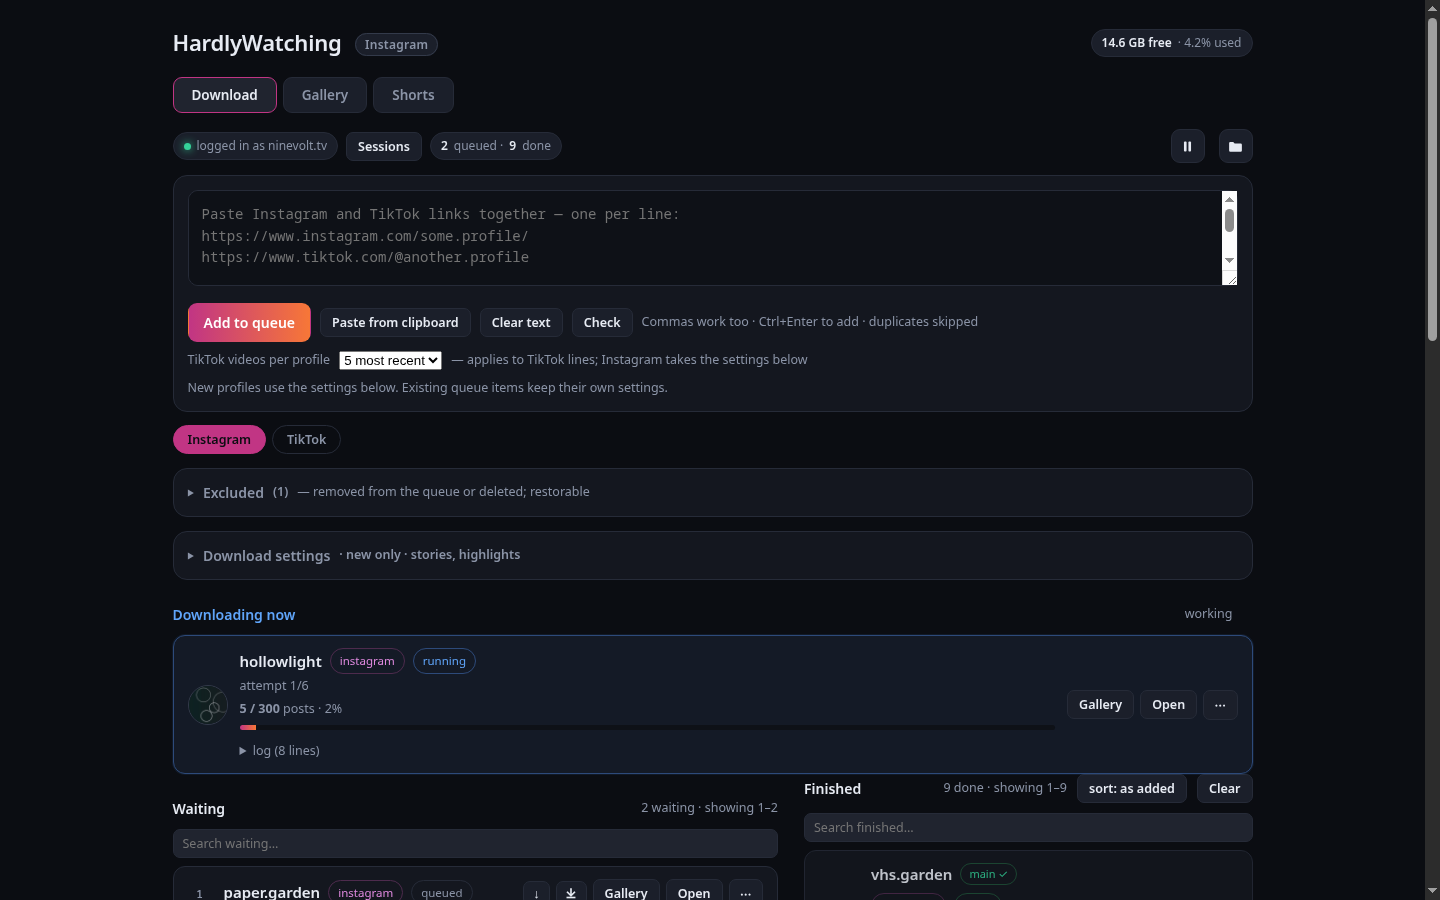
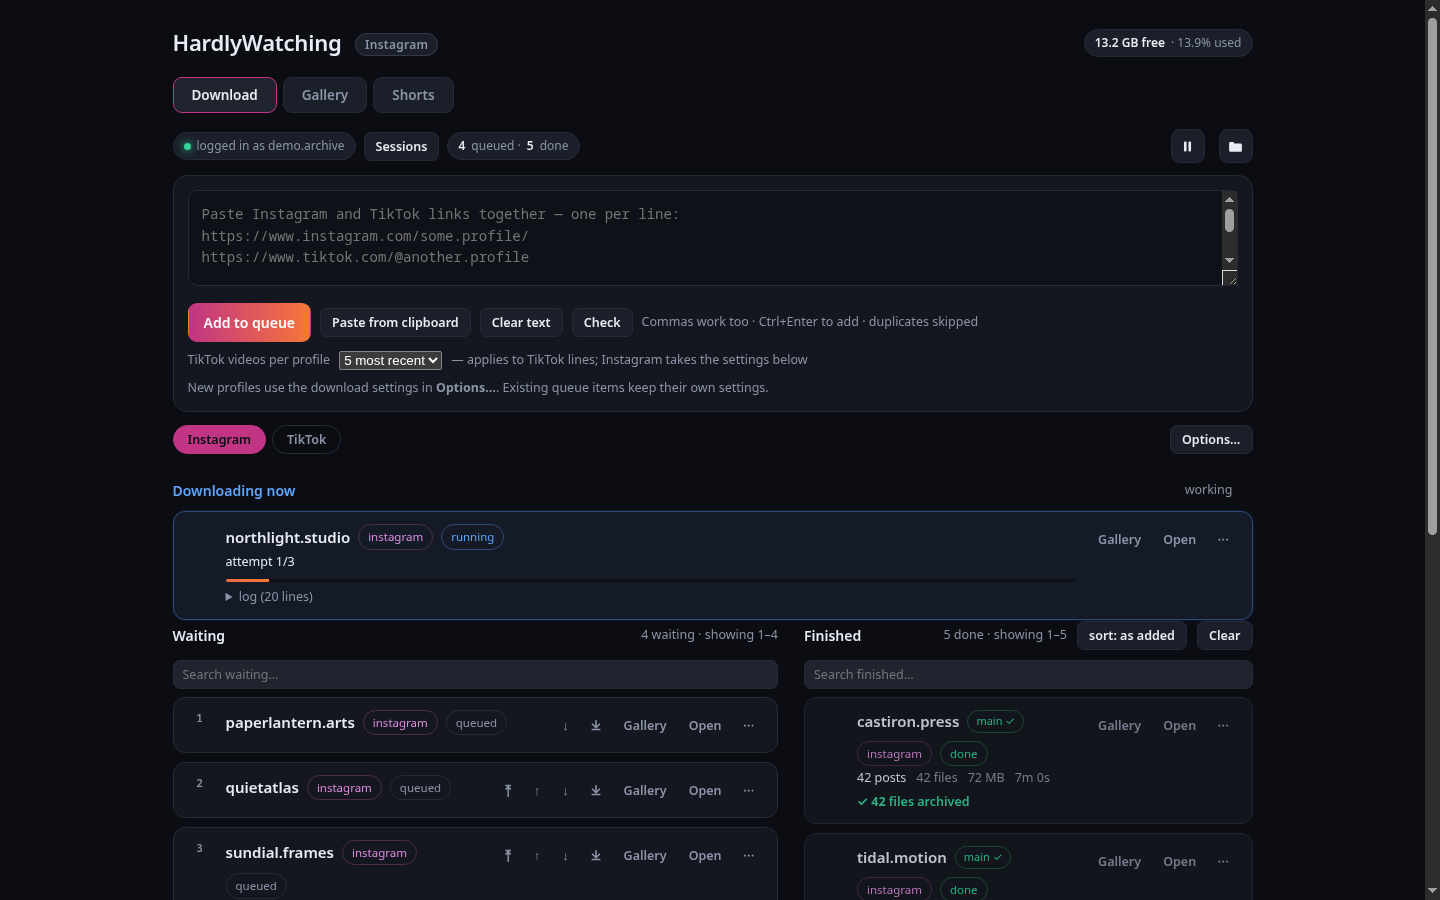
README: release builds, one-click flatpak, phone switch, backups
The screenshots were of the layout two releases ago: four collapsed panels above
the queue and no Options button anywhere. Redrawn against a demo instance -- made
up handles, a demo session and archive path, a stand-in downloader for the
progress row -- so nothing of anyone's real library is in them.

What the README gained, beyond the pictures:

- "Install a release build": flatpak (with the one-click .flatpakref from the
  flatpak repository on Pages), AppImage, DEB, and where each keeps its state.
- "Reach it from your phone" is now the switch in Options, with the
  INSTA_HOST= loopback-only escape hatch for headless starts, instead of telling
  people to export INSTA_HOST and hope.
- "Backup and restore": what a backup contains, that restoring touches no media,
  that the current state is snapshotted first and the queue comes back paused,
  and why gallery-cache.db is not in the zip.

Also: the two queue heads get a common minimum height. Waiting and Finished
started on the same line, but the finished head carries sort and Clear, so the
search boxes below them sat 8px apart.

diff --git a/index.html b/index.html
@@ -211,6 +211,12 @@
   #failSection > .section-head,
   #doneSection > .section-head,
   .col-left > .section-head{margin-top:0}
+  /* Both heads hold the same row of controls now (Waiting has the count, the
+     finished list adds sort and Clear), but the finished one ends up taller, so
+     the search boxes under the two headings sat 8px apart. A common floor keeps
+     the rows below them level. */
+  .col-left > .section-head,
+  #doneSection > .section-head{min-height:30px;align-items:center}
   #failSection{margin-bottom:24px}
   /* The queue and the finished list are different lengths, so the gap above
      them has to come from the layout, not from whichever head happens to be

diff --git a/README.md b/README.md
@@ -72,7 +72,9 @@ can start logins and delete files. Do not expose it to the internet.
 ## Screenshots
 
 **Queue** — paste profiles, add them, start. Instagram and TikTok download in
-parallel, one profile each, with the waiting and finished lists side by side.
+parallel, one profile each, with the waiting and finished lists side by side. The
+two lists line up on the same row, and the occasional panels live behind
+**Options…** rather than stacked under the paste box.
 
 ![The queue screen: profiles waiting and finished, with the page and search controls](docs/queue.png)
 
@@ -122,6 +124,25 @@ marked, plus grabbing a login out of your browser.
 
 ![The sessions panel: saved sessions with Use buttons, one marked in use](docs/sessions-panel.png)
 
+**Options** — download settings, backup and restore, phone access and the
+excluded list were four collapsed panels between the paste box and the queue.
+They are one button and a tab strip now, so the queue is what the page shows.
+
+![The Options dialog on its Download settings tab](docs/options.png)
+
+**Backup & restore** — export everything the app *remembers* into one zip, and
+restore it on any copy of the app, here or on another machine. The archive
+folders are not in the zip; the gallery and shorts already rebuild from them.
+
+![Options, the Backup & restore tab, with saved backups and an export button](docs/options-backup.png)
+
+**On a phone** — the same app at phone width. The phone card in Options has the
+switch, the address to type and a copy button.
+
+![The queue on a 390px-wide screen](docs/queue-phone.png)
+
+![Options, phone access, with the switch on and the address to type](docs/options-phone.png)
+
 ---
 
 ## Install and run
@@ -169,6 +190,29 @@ version, its process id, the port it holds, when it started and the API number:
 {"version": "0.2.0", "pid": 124968, "port": 8899, "started": "2026-10-23T16:09:57-07:00", "api": 1}
 ```
 
+### Install a release build
+
+Every [release](https://github.com/hardlysleeping/HardlyWatching/releases) has
+Linux x86_64 binaries, built from the tag. They are the same app as
+`python3 run.py` — one web UI, one queue, one engine — just packaged.
+
+| | how | where its files go |
+|---|---|---|
+| **Flatpak** | [Install](https://hardlysleeping.github.io/HardlyWatching/hardlywatching.flatpakref) — opens your software installer, or `flatpak install https://hardlysleeping.github.io/HardlyWatching/hardlywatching.flatpakref` | `~/.var/app/io.github.hardlysleeping.HardlyWatching`; port 8777 |
+| **AppImage** | `chmod +x HardlyWatching_*_amd64.AppImage` and run it | same as `run.py` |
+| **DEB** | `sudo apt install ./HardlyWatching_*_amd64.deb`, then launch from the menu | same as `run.py` |
+
+The flatpak carries its own Python, ffmpeg, instaloader and yt-dlp, keeps its own
+queue and cache, and listens on **8777** so it cannot collide with an install
+already running on 8765. It needs the `org.gnome.Platform//49` runtime from
+Flathub, which the installer fetches; updates arrive with `flatpak update`. The
+AppImage and DEB use your system's WebKitGTK, GTK3 and ffmpeg, so they want a
+glibc 2.38+ distribution (Fedora 39+, Ubuntu 24.04+).
+
+A release build keeps its state where that build expects it. Nothing follows the
+source tree around: to move a queue from one copy to another, export from
+**Options… → Backup & restore** and restore the zip on the other side.
+
 ### Other ways to start it
 
 ```bash
@@ -211,21 +255,32 @@ either you get a plain terminal prompt with the same commands (`start`, `stop`,
 
 ### Reach it from your phone
 
-It listens on `127.0.0.1` by default. To use it from another device on your own
-network or over Tailscale:
+**Options… → Open on your phone** is the whole switch. Turn it on and the card
+shows the address to type into the phone — the machine's LAN address, and the
+Tailscale one if you have it — plus a copy button. Open that address on the phone
+and the browser's *Add to Home Screen* puts a shortcut there; `/shorts` on its
+own is the phone-shaped feed.
+
+The switch is a gate, not a password. While it is on, anything that can reach the
+port can use the whole app: the queue, download settings, backup export, file
+deletion. Turn it off when you are not using it, and do not put the port on the
+internet. The socket is open on all interfaces so the address in the card works,
+but requests from other machines are refused with a short explanation unless the
+switch is on.
+
+Off, requests from other machines are refused. The server binds every interface
+either way, because a loopback-only socket cannot answer the phone at all; the
+switch is what decides. If you would rather not have the socket open, or you are
+starting it from a script, the same thing is an environment variable:
 
 ```bash
-INSTA_HOST=0.0.0.0 python3 run.py
+INSTA_HOST=127.0.0.1 python3 server.py   # loopback only: the phone can never reach it
+INSTA_HOST=0.0.0.0   python3 server.py   # all interfaces, still gated by the switch
 ```
 
-Then open `http://<machine-ip>:8765` — e.g. `http://100.x.y.z:8765` over
-Tailscale, or `http://192.168.1.50:8765` on the same wifi. On Windows,
-`set INSTA_HOST=0.0.0.0` first. For the systemd service, `systemctl --user edit
-hardlywatching` and add `Environment=INSTA_HOST=0.0.0.0` under `[Service]`.
-
-There is no authentication — see the warning at the top. The browser-login button
-opens a terminal on the *server* machine, so login only makes sense from the
-machine it runs on.
+The browser-login button opens a terminal on the *server* machine, so logging in
+only makes sense on the machine it runs on — from the phone, the app is a viewer
+and a queue.
 
 ### Autostart (Linux)
 
@@ -496,6 +551,34 @@ only serves a few vertical renditions and yt-dlp reports height as the **long**
 side, so 1080p means 1080x1920 — hence the familiar rungs of 540, 720 or 1080.
 
 ---
+
+## Backup and restore
+
+The archive is just folders: point any copy of the app at them and the gallery and
+shorts rebuild from the files. What does *not* come back that way is everything the
+app remembers **about** them — the queue and its order, download settings, hidden
+and excluded profiles, delete tombstones, bookmarks and their categories, likes,
+shorts history. That is what a backup is for.
+
+**Options… → Backup & restore:**
+
+- **Back up now** writes one into the app's own backups folder. It also does this
+  itself once a day; the newest seven are kept.
+- **Export a copy…** downloads the same thing as a zip: `state.json`,
+  `profiles.db`, and a manifest. Optionally the instaloader session too, so the
+  other machine does not have to spend a rate-limited login.
+- **Restore from backup…** takes a zip back in, here or on another copy of the
+  app (web, AppImage, DEB, flatpak — any of them).
+
+Restoring replaces the queue, settings and people list, **not** the archive
+folders: no media is moved, downloaded or deleted by a restore. The current state
+is snapshotted first, so it can be undone, a mismatched archive path is rewritten
+to the folder you are actually using, and the restored queue comes back paused —
+nothing starts downloading until you press Start.
+
+`gallery-cache.db` is deliberately not in the zip. It is a folder-listing cache
+keyed by mtime and inode, it rebuilds itself, and copying it would only carry
+stale rows.
 
 ## Settings worth knowing
 

diff --git a/CHANGELOG.md b/CHANGELOG.md
@@ -5,6 +5,14 @@ versioning is [SemVer](https://semver.org/).
 
 ## [Unreleased]
 
+### Added
+
+- **A flatpak repository, so the app installs like an app.** The releases carried
+  a `.flatpak` file, which is a download with an install command; there is now a
+  signed repository at <https://hardlysleeping.github.io/HardlyWatching/> and a
+  `.flatpakref` that opens in a software installer from one click. `flatpak
+  update` works from then on.
+
 ### Fixed
 
 - **The Flatpak listens on 8777, not 8765.** The bundled shell attaches to
@@ -12,6 +20,10 @@ versioning is [SemVer](https://semver.org/).
   network, so on 8765 it would have driven a separately running install instead
   of its own copy. The flatpak now has its own port; queue, settings and gallery
   cache were already separate.
+- **The two queue headings' rows are the same height.** "Waiting" and "Finished"
+  started on the same line, but the finished head carries sort and Clear, so the
+  search boxes under them sat 8px apart. A common minimum height levels the rows
+  below the headings.
 
 ## [0.3.1] — 2026-10-24
 
